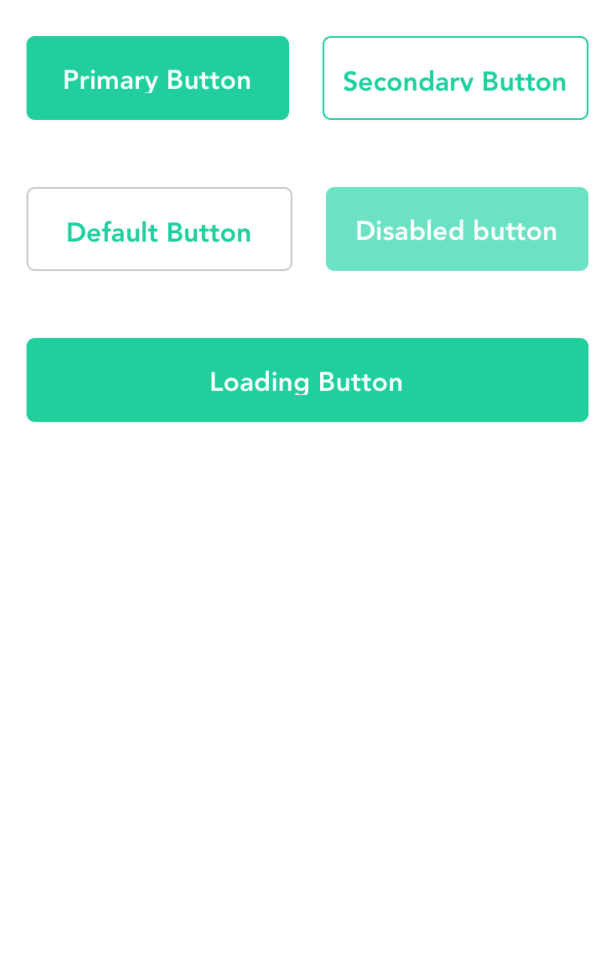
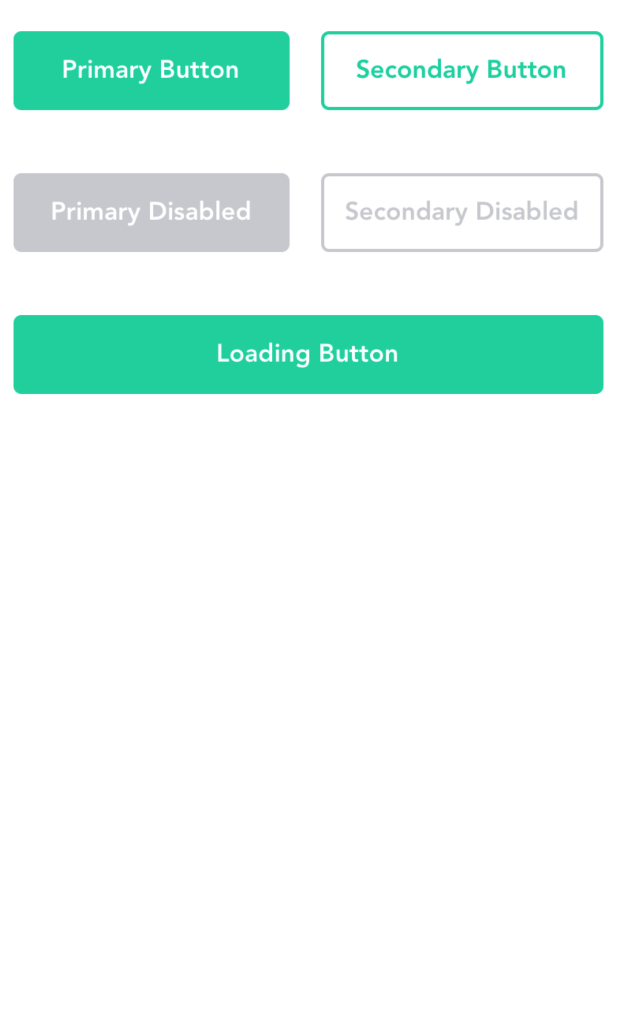
button docs fixes

diff --git a/src/components/Button/helper.tsx b/src/components/Button/helper.tsx
@@ -38,7 +38,7 @@ export const getBtnStyles = (
     case 'primary':
       return {
         ...BaseStyles.grwButton,
-        backgroundColor: disabled ? Colors.primary_attr_40 : Colors.primary,
+        backgroundColor: disabled ? Colors.font_3 : Colors.primary,
         color: Colors.white,
         // opacity: disabled ? 0.6 : 1
       };
@@ -46,15 +46,8 @@ export const getBtnStyles = (
       return {
         ...BaseStyles.grwButton,
         backgroundColor: Colors.WHITE,
-        borderColor: disabled ? Colors.primary_attr_40 : Colors.primary,
+        borderColor: disabled ? Colors.font_3 : Colors.primary,
         // opacity: disabled ? 0.6 : 1,
-        borderWidth: 2,
-      };
-    case 'default':
-      return {
-        ...BaseStyles.grwButton,
-        backgroundColor: Colors.WHITE,
-        borderColor: Colors.font_3,
         borderWidth: 2,
       };
     default: {
@@ -77,12 +70,7 @@ export const getLabelStyles = (
     case 'secondary':
       return {
         ...BaseStyles.grwLabel,
-        color: disabled ? Colors.primary_40 : Colors.primary,
-      };
-    case 'default':
-      return {
-        ...BaseStyles.grwLabel,
-        color: disabled ? Colors.primary_40 : Colors.primary,
+        color: disabled ? Colors.font_3 : Colors.primary,
       };
     default: {
       return {};

diff --git a/example/src/examples/ButtonExample.tsx b/example/src/examples/ButtonExample.tsx
@@ -25,28 +25,26 @@ const ButtonExample = () => {
             onPress={handlePress}
             label="Primary Button"
             customStyles={{ flex: 1, marginRight: 20 }}
-            loading={loading}
           />
           <Button
             type="secondary"
             onPress={handlePress}
             label="Secondary Button"
             customStyles={{ flex: 1 }}
-            loading={loading}
           />
         </View>
         <View style={{ flexDirection: 'row', marginVertical: 20 }}>
           <Button
-            type="default"
-            onPress={handlePress}
-            label="Default Button"
-            customStyles={{ flex: 1, marginRight: 20 }}
-            loading={loading}
-          />
-          <Button
             type="primary"
             onPress={handlePress}
-            label="Disabled button"
+            label="Primary Disabled"
+            customStyles={{ flex: 1, marginRight: 20 }}
+            disabled
+          />
+          <Button
+            type="secondary"
+            onPress={handlePress}
+            label="Secondary Disabled"
             disabled
             customStyles={{ flex: 1 }}
           />

diff --git a/documentation/docs/button.md b/documentation/docs/button.md
@@ -8,16 +8,10 @@ Button components helps to handle all user actions using onPress handlers, the b
 
 <div className="image-horizontal-preview">
     <figure>
-      <img src="/frontatish/img/primary-button.png" alt="primary-button" />
+      <img src="/frontatish/img/button-light.png" alt="primary-button" />
     </figure>
     <figure>
-      <img src="/frontatish/img/secondary-button.png" alt="secondary-button" />
-    </figure>
-    <figure>
-      <img src="/frontatish/img/default-button.png" alt="default-button" />
-    </figure>
-    <figure>
-      <img src="/frontatish/img/disabled-button.png" alt="disabled-button" />
+      <img src="/frontatish/img/button-dark.png" alt="secondary-button" />
     </figure>
 </div>
 
@@ -66,9 +60,9 @@ Label to display inside the button
 
 On the basis of **type** passed to component, it applies the defined style to it
 
-|           Type            |            Default             |                        Values                        |       Required        |
-| :-----------------------: | :----------------------------: | :--------------------------------------------------: | :-------------------: |
-| string <img width="500"/> | **primary** <img width="500"/> | enum(primary, secondary, default) <img width="500"/> | No <img width="500"/> |
+|           Type            |            Default             |                 Values                  |       Required        |
+| :-----------------------: | :----------------------------: | :-------------------------------------: | :-------------------: |
+| string <img width="500"/> | **primary** <img width="500"/> | primary or secondary <img width="500"/> | No <img width="500"/> |
 
 ### loading
 
